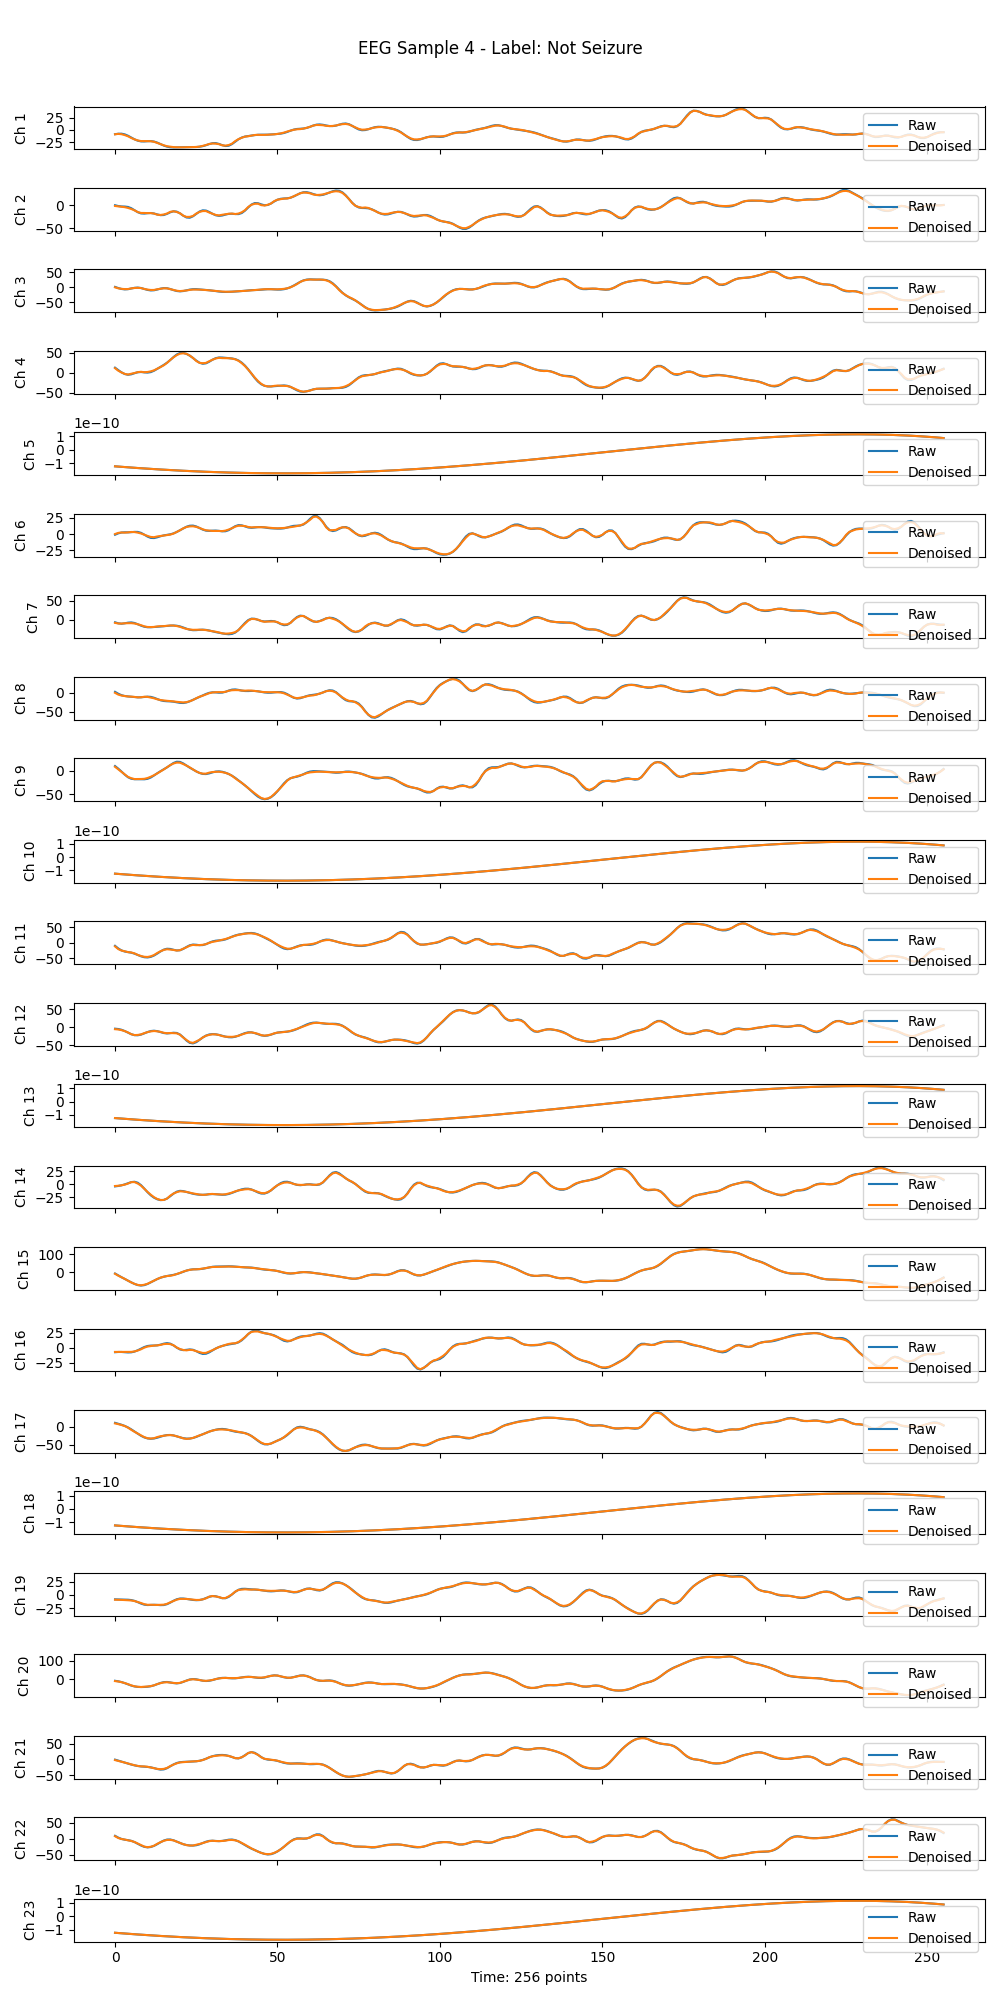
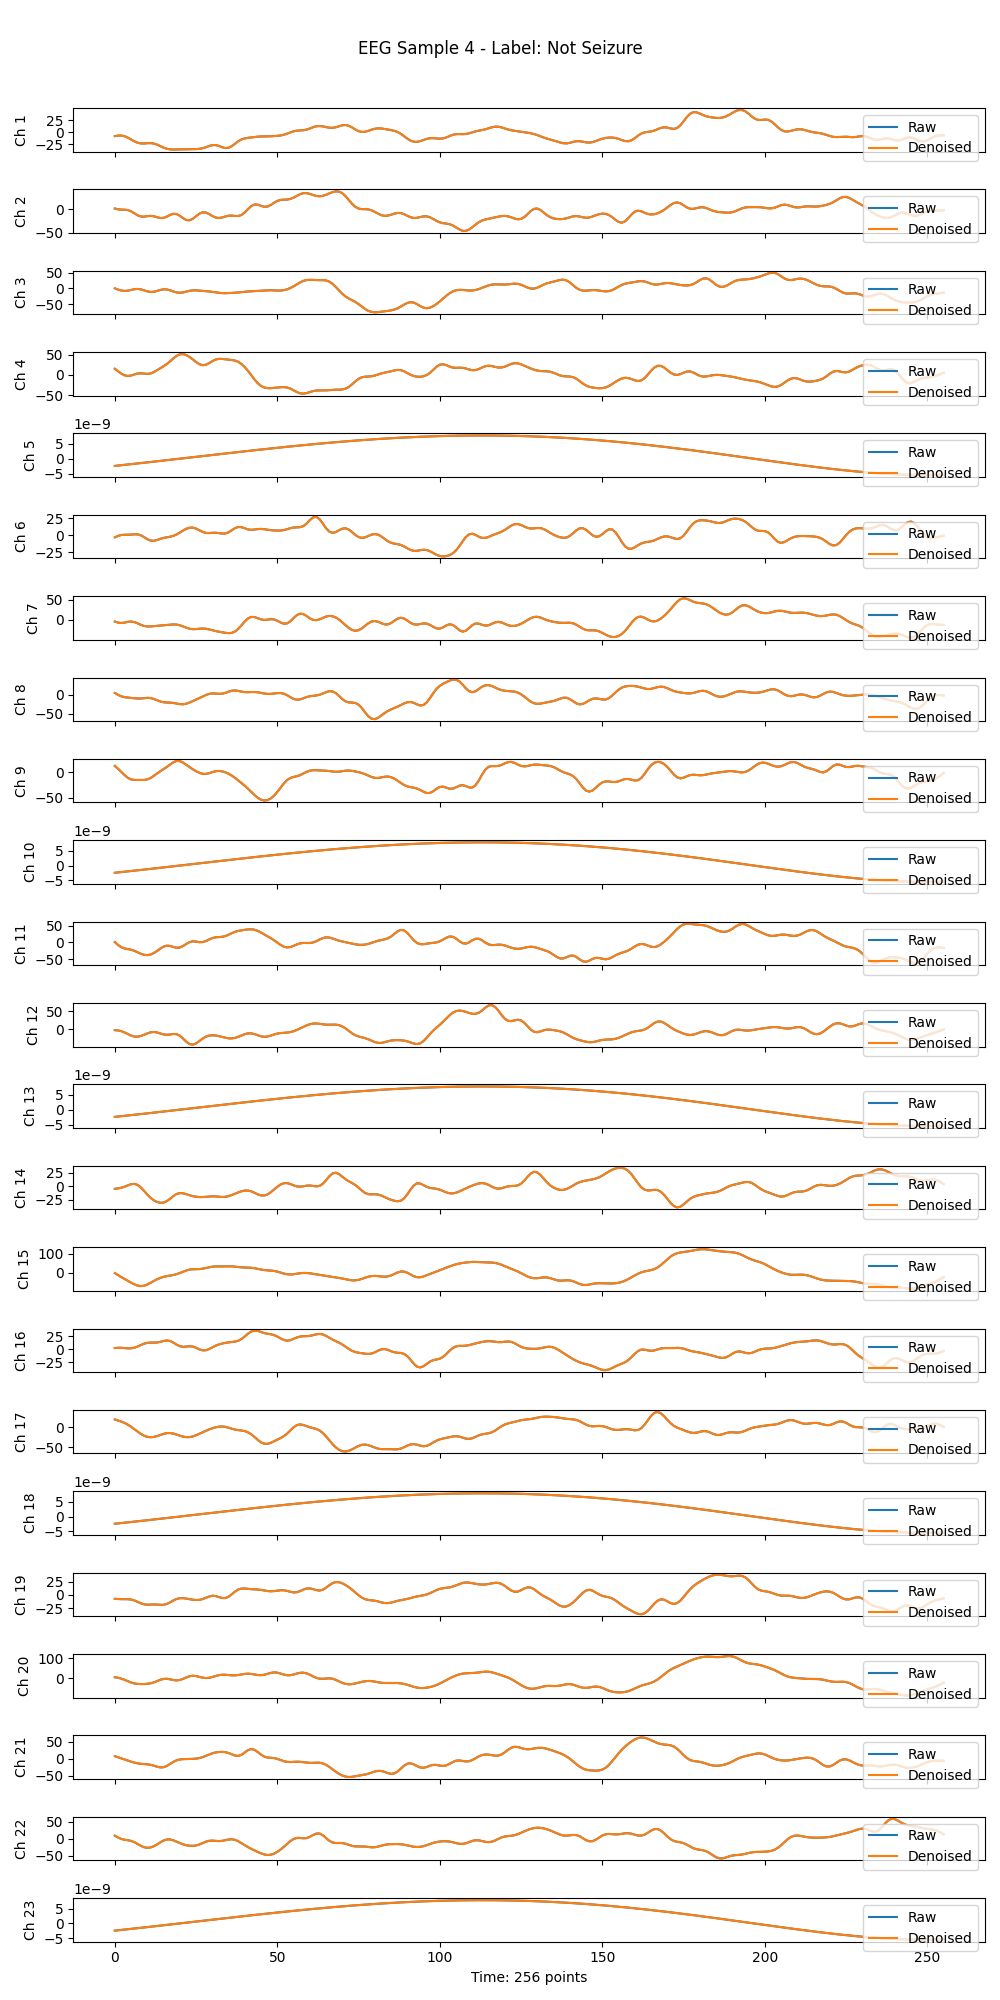
Optimized bandpass filter

diff --git a/data_cleaning.py b/data_cleaning.py
@@ -10,7 +10,7 @@ from sklearn.preprocessing import StandardScaler
 ########## Loading the datasets ##########
 # Load the training dataset 
 
-path = '' # Change this to the location of your local data folder
+path = "D:\\Vanessa\\Documents\\eeg_data\\" # Change this to the location of your local data folder
 
 train_data = np.load(path+'eeg-predictive_train.npz')
 print(train_data.files) # Check the keys in the npz file
@@ -79,23 +79,26 @@ for i in range(5):
 '''
 
 ########## Noise removal using bandpass filter ##########
-def bandpass_filter(data, lowcut, highcut, fs, order=5):
+def create_bandpass_filter(lowcut, highcut, fs, order=5):
     nyq = 0.5 * fs
     # Normalize cutoff frequencies 
     low = lowcut / nyq
     high = highcut / nyq
     b, a = butter(order, [low, high], btype='band')
+    return b, a
 
+def bandpass_filter(data, b, a):
     # Apply the filter to each signal (each channel in each sample)
-    filtered = np.empty_like(data)
+    filtered = np.zeros_like(data)
     for i in range(data.shape[0]):      
         for c in range(data.shape[1]):  
             filtered[i, c, :] = filtfilt(b, a, data[i, c, :])
     return filtered
 
-X_train = bandpass_filter(X_train, lowcut=0.5, highcut=40, fs=256)
-X_val = bandpass_filter(X_val, lowcut=0.5, highcut=40, fs=256)
-X_val_bal = bandpass_filter(X_val_bal, lowcut=0.5, highcut=40, fs=256)
+b, a = create_bandpass_filter(lowcut=0.5, highcut=40, fs=256)
+X_train = bandpass_filter(X_train, b, a)
+X_val = bandpass_filter(X_val, b, a)
+X_val_bal = bandpass_filter(X_val_bal, b, a)
 
 ########## Artifacts removal ##########
 
@@ -233,8 +236,10 @@ def normalization(X, scalers):
 
 ########## Saving Data ##########
 
+scalers = get_scalers(X_train)
+
 # This is the denoised + normalized one
-X_train_norm_denoise, X_val_norm_denoise = normalization(denoise(X_train),denoise(X_val_bal))
+X_train_norm_denoise, X_val_norm_denoise = normalization(denoise(X_train), scalers), normalization(denoise(X_val_bal), scalers)
 np.savez_compressed(
     'denoised_eeg_data.npz',
     X_train=X_train_norm_denoise,
@@ -244,7 +249,7 @@ np.savez_compressed(
 )
 
 # This is the ONLY normalized one
-X_train_norm, X_val_norm = normalization(X_train,X_val_bal)
+X_train_norm, X_val_norm = normalization(X_train, scalers), normalization(X_val_bal, scalers)
 np.savez_compressed(
     'processed_eeg_data.npz',
     X_train=X_train_norm,
@@ -252,4 +257,8 @@ np.savez_compressed(
     y_train=y_train,
     y_val=y_val_bal
 )
+
+
+def create_sliding_window():
+    pass
 
